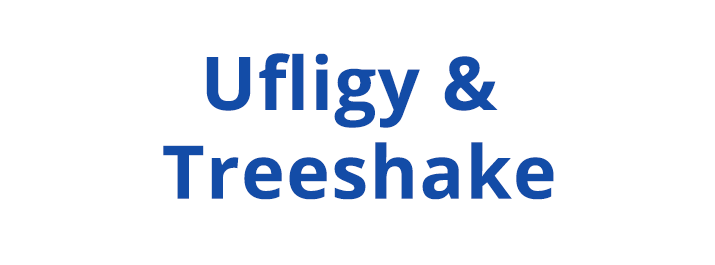
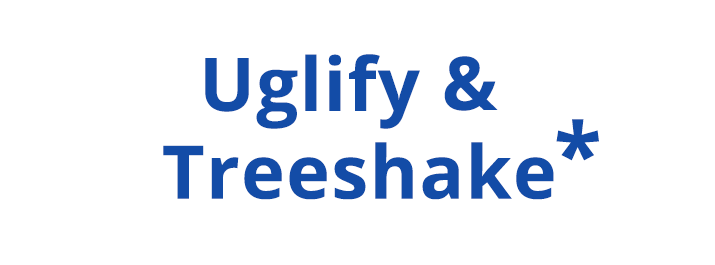
final presentation, i think xD

Changed region(s): [[0.2769, 0.1811, 0.5846, 0.483], [0.7692, 0.4528, 0.8615, 0.6038], [0.5538, 0.3019, 0.5846, 0.3623]]

diff --git a/presentation/index.js b/presentation/index.js
@@ -55,7 +55,8 @@ const images = {
   build2: require("../assets/build_2.png"),
   build3: require("../assets/build_3.png"),
   build4: require("../assets/build_4.png"),
-  build5: require("../assets/build_5.png")
+  build5: require("../assets/build_5.png"),
+  webpack_angular: require("../assets/webpack_angular.png"),
 
 };
 
@@ -68,6 +69,7 @@ const theme = createTheme({
   quartenary: "#CECECE",
   dark: "#202020",
   codeBg: "#122b45",
+  seed: "#252525",
   green: '#0f9d58',
   blue: '#0277bd',
   red: '#db4437',
@@ -89,7 +91,7 @@ export default class Presentation extends React.Component {
             Building Angular Apps
           </Heading>
           <Text margin="10px 0 0" textColor="dark" textSize={34} bold>
-            Understanding the build process using Webpack
+            Going beyond Angular CLI with Webpack
           </Text>
         </Slide>
         <Slide transition={["f"]} bgImage={[images.slide2]}>
@@ -102,8 +104,8 @@ export default class Presentation extends React.Component {
           <List textColor="dark" margin="60px 0 0 0">
             <Appear><ListItem margin="20px 0 0 0">Angular workflow</ListItem></Appear>
             <Appear><ListItem margin="20px 0 0 0">Breakdown of the build process</ListItem></Appear>
-            <Appear><ListItem margin="20px 0 0 0">Using Webpack save our lives</ListItem></Appear>
-            <Appear><ListItem margin="20px 0 0 0">Demo :)</ListItem></Appear>
+            <Appear><ListItem margin="20px 0 0 0">Using Webpack ftw!</ListItem></Appear>
+            <Appear><ListItem margin="20px 0 0 0">Setup angular aot with webpack :)</ListItem></Appear>
           </List>
         </Slide>
 
@@ -137,30 +139,30 @@ export default class Presentation extends React.Component {
 
         <Slide transition={["fade"]}  bgImage={[images.mainbg]}>
           <Heading size={3} margin="60px 0 0 0"fit caps textColor="primary">
-            Feel like a hero yet?
+            Why use anything else?
           </Heading>
           
 
           <List textColor="dark" margin="60px 0 0 0">
-            <Appear><ListItem margin="20px 0 0 0">We run ng build and it's in MB's</ListItem></Appear>
-            <Appear><ListItem margin="20px 0 0 0">We run --prod and it's in KB's</ListItem></Appear>
-            <Appear><ListItem margin="20px 0 0 0">We run --aot , something happens</ListItem></Appear>
+            <Appear><ListItem margin="20px 0 0 0">Have more control</ListItem></Appear>
+            <Appear><ListItem margin="20px 0 0 0">Use of extra features</ListItem></Appear>
+            <Appear><ListItem margin="20px 0 0 0">Understand Angular better</ListItem></Appear>
           </List>
 
           <Appear>
-            <Heading size={3} margin="60px 0 0 0"fit caps textColor="primary">
-              How does it all work?
+            <Heading size={3} margin="60px 0 0 0" fit caps textColor="primary">
+              CURIOSITY
             </Heading>
           </Appear>
         </Slide>
 
           <Slide transition={["fade"]} bgImage={[images.mainbg]}>
-          <Heading size={5}  caps textColor="primary">
+          <Heading size={5} caps textColor="primary">
             We clone an angular seed from github
           </Heading>
           </Slide>
 
-        <Slide transition={["fade"]} align="center center" bgColor="darkslide">
+        <Slide transition={["fade"]} align="center center" bgColor="seed">
            <Image src={[images.slide4]} width="100%"></Image>
           <Appear><Image src={[images.mindblown]} margin="-100% 0 0 0" width="450px"></Image></Appear>
         </Slide>
@@ -223,13 +225,6 @@ export default class Presentation extends React.Component {
             </Layout>
         </Slide>
 
-        <Slide transition={["fade"]} bgImage={[images.mainbg]} textColor="primary">
-          <Image src={[images.webpack]} width="400px"></Image>
-         <Heading size={4} caps fit textColor="primary">
-                  Webpack to the rescue
-            </Heading>
-        </Slide>
-
         <Slide transition={["fade"]}  bgImage={[images.mainbg]}>
            {/*<Heading size={4} textAlign="left" textColor="primary">
                   Building with Webpack
@@ -241,7 +236,7 @@ export default class Presentation extends React.Component {
               <Fill>
                 <Appear>
                   <Text textSize={24} margin="20px 0 0 40px" textAlign="left"  textColor="primary">
-                   Create a package.json file, npm install all dependencies & code app in Typescript
+                   Create a package.json file, yarn install all dependencies & code app in Typescript
                   </Text>
                 </Appear>
               </Fill>
@@ -281,7 +276,7 @@ export default class Presentation extends React.Component {
               <Fill>
                 <Appear>
                   <Text textSize={24} margin="20px 0 0 40px" textAlign="left"  textColor="primary">
-                  We can use a Webpack plugin to Uglify and Tree Shake our code.
+                  We can use a Webpack plugin to Uglify and Tree-Shake* our code.
                   </Text>
                 </Appear>
               </Fill>
@@ -300,12 +295,132 @@ export default class Presentation extends React.Component {
               </Fill>
             </Layout>
         </Slide>
+
+        <Slide transition={["fade"]} bgImage={[images.mainbg]} textColor="primary">
+          <Image src={[images.webpack]} width="400px"></Image>
+         <Heading size={4} caps fit textColor="primary">
+                  Webpack to the rescue
+            </Heading>
+        </Slide>
+
+
+         <CodeSlide
+            transition={["f"]}
+            lang="typescript"
+            bgColor="codeBg"
+            code={require("raw-loader!../assets/code/webpack.ts")}
+            ranges={[
+              { loc: [0, 0], title: "Webpack 101" },
+              { loc: [0, 3], note: "Define any plugins we need" },
+              { loc: [4, 5], note: "Configuration goes into module.exports object" },
+              { loc: [5, 6], note: "Step 1. Define entry point" },
+              { loc: [6, 10], note: "Step 2. Define output" },
+              { loc: [10, 18], note: "Step 3. Tell webpack what to do." },
+              { loc: [18, 25], note: "Step 4. Configure any plugins we plan to use." }
+              // ...
+            ]}/>
+          
+        <Slide transition={["fade"]} bgImage={[images.mainbg]} textColor="primary">
+          <Image src={[images.webpack_angular]} width="400px"></Image>
+         <Heading size={4} caps fit textColor="primary">
+                  Angular AOT with Webpack 
+            </Heading>
+        </Slide>
+
+        <Slide transition={["fade"]}  bgImage={[images.mainbg]}>
+          <Heading size={3} margin="60px 0 0 0"fit caps textColor="primary">
+            The important bits
+          </Heading>
+          
+
+          <List textColor="dark" margin="60px 0 0 0">
+            <Appear><ListItem margin="20px 0 0 0">AOT tsconfig.josn</ListItem></Appear>
+            <Appear><ListItem margin="20px 0 0 0">AOT bootstrap</ListItem></Appear>
+            <Appear><ListItem margin="20px 0 0 0">Webpack plugins & loaders</ListItem></Appear>
+            <Appear><ListItem margin="20px 0 0 0">AOT webpack config</ListItem></Appear>
+            <Appear><ListItem margin="20px 0 0 0">npm commands</ListItem></Appear>
+          </List>
+        </Slide>
+
         
+         <CodeSlide
+            transition={["f"]}
+            lang="typescript"
+            bgColor="codeBg"
+            code={require("raw-loader!../assets/code/tsconfig.ts")}
+            ranges={[
+              { loc: [0, 0], title: "AOT tsconfig" },
+              { loc: [18, 23], note : "exclude bootstap file"},
+              { loc: [23, 26], note : "location for aot generated files" }
+              // ...
+            ]}/>
+
+            
+         <CodeSlide
+            transition={["f"]}
+            lang="typescript"
+            bgColor="codeBg"
+            code={require("raw-loader!../assets/code/main.aot.ts")}
+            ranges={[
+              { loc: [0, 0], title: "AOT Bootstrap" },
+              { loc: [0, 1], note: "aot uses platformBrowser instead of platformBrowserDynamic" },
+              { loc: [1, 2], note: "generated via webpack" },
+              { loc: [10, 11], note: "bootstrap our app"}
+              // ...
+            ]}/>
+
+            <CodeSlide
+            transition={["f"]}
+            lang="typescript"
+            bgColor="codeBg"
+            code={require("raw-loader!../assets/code/webpack.aot.ts")}
+            ranges={[
+              { loc: [0, 0], title: "AOT Webpack" },
+              { loc: [3, 4], note: "We use @ngtools/webpack plugin for AOT" },
+              { loc: [10, 14] },
+              { loc: [14, 19] },
+              { loc: [25, 30] , note: "We use @ngtools/webpack to transpile"},
+              { loc: [55, 59] , note: "@ngtools/webpack AotPlugin : define our tsconfig path & our entry module"}
+              // ...
+            ]}/>
+
+          <Slide transition={["fade"]}  bgImage={[images.mainbg]}>
+          <Heading size={3} margin="60px 0 0 0"fit caps textColor="primary">
+            Let's see it in Action
+          </Heading>
+        </Slide>
+          
+        <Slide transition={["fade"]}  bgImage={[images.mainbg]}>
+          <Heading size={3} margin="60px 0 0 0" textColor="primary">
+            Links
+          </Heading>
+            <List>
+            <ListItem>
+              <Link  textColor="primary" href="https://github.com/criticalpixel/angular-webpack2-barebone">Github : angular-webpack2-barebone</Link>
+            </ListItem>
+            <ListItem>
+              <Link  textColor="primary" href="https://angular.io/docs/ts/latest/cookbook/aot-compiler.html">AOT Cookbook</Link>
+            </ListItem>
+            <ListItem>
+              <Link  textColor="primary" href="https://angular.io/docs/ts/latest/guide/deployment.html">Angular Deployment Guide</Link>
+            </ListItem>
+            <ListItem>
+              <Link  textColor="primary" href="https://github.com/AngularClass/angular2-webpack-starter">Angular Class Webpack Starter</Link>
+            </ListItem>
+            <ListItem>
+              <Link  textColor="primary" href="https://medium.com/@Rich_Harris/tree-shaking-versus-dead-code-elimination-d3765df85c80#.15ih9cyvll">Treeshaking vs Deadcode elimination</Link>
+          </ListItem>
+          <ListItem>
+              <Link  textColor="primary" href="http://www.dzurico.com/angular-aot-webpack-lazy-loading/">Dzurico : AOT webpack lazyloading</Link>
+          </ListItem>
+          </List>
+        </Slide>
+
 
         <Slide transition={["fade"]} bgColor="secondary" textColor="primary">
           <BlockQuote>
             <Quote>Thank You!</Quote>
-            <Cite textColor="dark">Thomas</Cite>
+            <Cite textColor="dark">@criticalpix</Cite>
           </BlockQuote>
         </Slide>
       </Deck>

diff --git a/assets/code/webpack.aot.ts b/assets/code/webpack.aot.ts
@@ -1,0 +1,83 @@
+const path = require('path');
+const webpack = require('webpack');
+//plugins
+const AotPlugin = require('@ngtools/webpack').AotPlugin;
+const CommonsChunkPlugin = require('webpack/lib/optimize/CommonsChunkPlugin');
+const HtmlWebpackPlugin = require('html-webpack-plugin');
+const ScriptExtHtmlWebpackPlugin = require('script-ext-html-webpack-plugin');
+const UglifyJsPlugin = require('webpack/lib/optimize/UglifyJsPlugin');
+
+module.exports = {
+  entry: {
+    main: "./src/main.aot.ts",
+    polyfills: "./src/polyfills.aot.ts"
+  },
+  output: {
+    path: path.resolve(__dirname, 'dist'),
+    filename: "[name].bundle.js",
+    chunkFilename: '[id].chunk.js'
+  },
+  resolve: {
+  	extensions: ['.js', '.ts', '.json'],
+  	 modules: [path.resolve(__dirname, 'src'), 'node_modules'],
+  },
+  module: {
+    rules: [
+      {
+        test: /\.ts$/,
+        loader: '@ngtools/webpack',
+        exclude: [/\.(spec|e2e)\.ts$/]
+      },
+      {
+        test: /\.css$/,
+        loaders: ['to-string-loader', 'css-loader']
+      },
+      {
+        test: /\.html$/,
+        loader: 'raw-loader',
+        exclude: [path.resolve(__dirname, 'src/index.html')]
+      },
+      {
+        test: /\.(jpg|png|gif)$/,
+        loader: 'file'
+      },
+      {
+        test: /\.json$/,
+        loader: 'json-loader'
+      }
+    ]
+  },
+  plugins: [
+    new CommonsChunkPlugin({
+        name: 'polyfills',
+        chunks: ['main']
+    }),
+    new AotPlugin({
+      tsConfigPath: './tsconfig.aot.json',
+      entryModule: path.resolve(__dirname, 'src/app/app.module#AppModule')
+    }),
+    new HtmlWebpackPlugin({
+    	template: 'src/index.html',
+    	chunksSortMode: 'dependency',
+    	inject:'head'
+    }),
+    new ScriptExtHtmlWebpackPlugin({
+      defaultAttribute: 'defer'
+    }),
+    new UglifyJsPlugin({
+        beautify: false,
+        comments: false,
+        compress: {
+            screw_ie8: true,
+            warnings: false
+        },
+        mangle: {
+            screw_i8: true
+        }
+    })
+  ],
+  devServer: {
+    port: 4200,
+    historyApiFallback:true
+  }
+};

diff --git a/assets/code/webpack.ts b/assets/code/webpack.ts
@@ -1,0 +1,26 @@
+const path = require('path');
+const webpack = require('webpack');
+const HtmlPlugin = require('html-webpack-plugin');
+
+module.exports = {
+  entry: './path/to/my/entry/file.ts',
+  output: {
+    path: path.resolve(__dirname, 'dist'),
+    filename: 'my-first-webpack.bundle.js'
+  },
+  module: {
+    rules: [
+      {
+        test: /\.ts$/, 
+        loader: 'ts-loader'
+      }
+    ]
+  },
+  plugins: [
+    new webpack.optimize.UglifyJsPlugin(),
+    new HtmlPlugin({
+    	template: 'src/index.html',
+    	inject:'head'
+    }),
+  ]
+};

diff --git a/assets/code/tsconfig.ts b/assets/code/tsconfig.ts
@@ -1,0 +1,27 @@
+{
+  "compilerOptions": {
+    "module": "es2015",
+    "moduleResolution": "node",
+    "target": "es5",
+    "noImplicitAny": false,
+    "sourceMap": true,
+    "mapRoot": "",
+    "emitDecoratorMetadata": true,
+    "experimentalDecorators": true,
+    "lib": [
+      "es2015",
+      "dom"
+    ],
+    "outDir": "lib",
+    "skipLibCheck": true,
+    "rootDir": "./src"
+  },
+  "exclude": [
+    "node_modules",
+    "dist",
+    "src/main.aot.ts"
+  ],
+  "angularCompilerOptions": {
+    "genDir": "src/ngfactory"
+  }
+}

diff --git a/assets/code/main.aot.ts b/assets/code/main.aot.ts
@@ -1,0 +1,11 @@
+import { platformBrowser }    from '@angular/platform-browser';
+import { AppModuleNgFactory } from './ngfactory/src/app/app.module.ngfactory';
+import { enableProdMode } from '@angular/core';
+import { environment } from './app/environment';
+
+if (environment.production) {
+  enableProdMode();
+}
+
+
+platformBrowser().bootstrapModuleFactory(AppModuleNgFactory);
